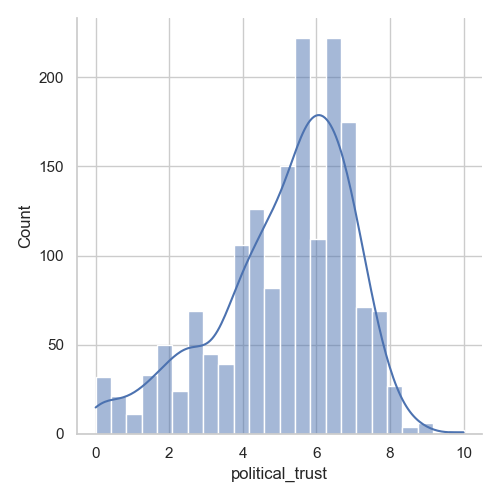
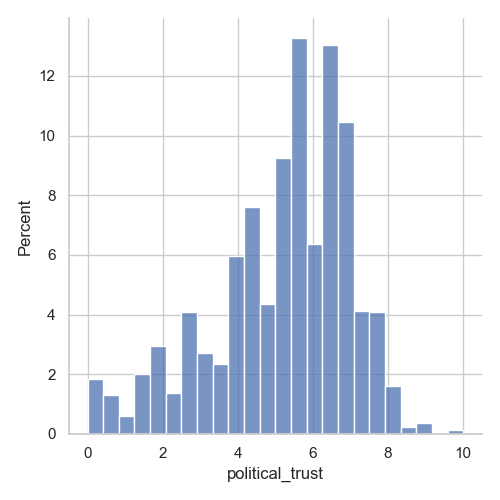
Refactor plots and add gender age pyramid visualization
Updated file paths and refactored descriptive plots for clarity. Introduced a new gender-based age pyramid plot to visualize demographic distribution. Minor changes include adding FIXME and TODO notes

diff --git a/ESS11/data_analysis/descriptive_plots_refactor.py b/ESS11/data_analysis/descriptive_plots_refactor.py
@@ -2,7 +2,7 @@ import pandas as pd
 import matplotlib.pyplot as plt
 import seaborn as sns
 
-path = 'ESS11/data/processed/data_NL_transf_kneighbor_v2.csv'
+path = "C:\Python homedirectory\Portfolio_git\ESS11\data\processed\data_NL_transf_kneighbor_v2.csv"
 df = pd.read_csv(path, index_col=0)
 
 print(df.columns)
@@ -13,12 +13,26 @@ df_pol = df.loc[:, ['age', 'gender', 'education', 'educational_level', 'activity
 
 
 ###############################################
+# Gender piechart
+gender_counts = df_pol['gender'].value_counts()
+
+plt.figure(figsize=(8, 8))
+plt.pie(
+    gender_counts,
+    labels=gender_counts.index,
+    autopct='%1.1f%%',
+    startangle=90,
+    colors=['lightblue', 'lightcoral']
+)
+
+plt.title('Gender Distribution', fontsize=14)
+plt.savefig(r'C:\Python homedirectory\Portfolio_git\ESS11\reports\figures\gender.png')
+
 #Exploration plots
 sns.set_theme(style='whitegrid')
 plt.figure(figsize=(10, 6))
 plot_categoricals = ['educational_level', 'voted']
 print(df.voted.value_counts())
-sns.countplot(df, x=df.activity_work, stat='percent')
 plt.show()
 
 for feature in plot_categoricals:
@@ -26,19 +40,8 @@ for feature in plot_categoricals:
     plt.show()
     plt.close()
 
-#age
-sns.displot(data=df_pol, x='age', kind='hist', kde=True)
-plt.savefig(r'C:\Python homedirectory\Portfolio_git\ESS11\reports\figures\age.png')
-plt.close()
-sns.displot(data=df_pol, x='political_trust', kind='hist', kde=True)
+sns.displot(data=df_pol, x='political_trust', kind='hist', stat='percent')
 plt.savefig(r'C:\Python homedirectory\Portfolio_git\ESS11\reports\figures\political_trust.png')
-plt.close()
-#gender
-sns.catplot(data=df_pol, x='gender', kind='count',stat='percent')
-plt.savefig(r'C:\Python homedirectory\Portfolio_git\ESS11\reports\figures\gender.png')
-plt.close()
-sns.catplot(data=df_pol, x='educational_level', col='gender', kind='count')
-plt.savefig(r'C:\Python homedirectory\Portfolio_git\ESS11\reports\figures\gender_education.png')
 plt.close()
 #edu trust boxplot
 sns.catplot(data=df_pol, x='educational_level', y='political_trust', kind='box')
@@ -52,4 +55,3 @@ plt.close()
 sns.lineplot(data=df_pol, y='political_trust', x='educational_level', hue='gender')
 plt.savefig(r'C:\Python homedirectory\Portfolio_git\ESS11\reports\figures\political_trust_line_gender.png')
 plt.close()
-#Divide per voted political party and compare % to latest election

diff --git a/ESS11/data_analysis/descriptive_gender_piramid.py b/ESS11/data_analysis/descriptive_gender_piramid.py
@@ -1,0 +1,41 @@
+import pandas as pd
+import seaborn as sns
+import matplotlib.pyplot as plt
+
+path = "C:\Python homedirectory\Portfolio_git\ESS11\data\processed\data_NL_transf_kneighbor_v2.csv"
+df = pd.read_csv(path, index_col=0)
+
+df_pol = df.loc[:, ['age', 'gender', 'education', 'educational_level', 'activity_work', 'voted', 'political_trust']]
+
+# Group the data by age and gender, calculate percentages
+age_gender = (
+    df_pol.groupby(['age', 'gender'])
+    .size()
+    .reset_index(name='count')
+    .pivot(index='age', columns='gender', values='count')
+    .fillna(0)
+)
+
+# Convert counts to percentages
+age_gender_percent = age_gender.div(age_gender.sum(axis=1), axis=0) * 100
+
+# Create the pyramid plot
+plt.figure(figsize=(12, 8))
+
+# Plot for category 1 (e.g., Female)
+plt.barh(age_gender_percent.index, -age_gender_percent['Female'], color='lightcoral', label='Female')
+
+# Plot for category 2 (e.g., Male)
+plt.barh(age_gender_percent.index, age_gender_percent['Male'], color='skyblue', label='Male')
+
+# Add labels
+plt.xlabel('Percentage')
+plt.ylabel('Age')
+plt.title('Age Pyramid by Gender')
+plt.legend(loc='upper right')
+plt.axvline(0, color='black', linewidth=0.5)  # Add a vertical line at 0
+
+# Show plot
+plt.tight_layout()
+plt.savefig(r'C:\Python homedirectory\Portfolio_git\ESS11\reports\figures\age.png')
+#plt.show()

diff --git a/ESS11/data_preparation/poltrust_scale/political_trust_kneighbors.py b/ESS11/data_preparation/poltrust_scale/political_trust_kneighbors.py
@@ -58,3 +58,4 @@ imputed_df.to_csv('C:\Python homedirectory\Portfolio_git\ESS11\data\processed\da
 
 
 # TODO K-NEIGHBORS moet afronden. Zorg ervoor dat je niet alle variabelen meeneemt
+# FIXME ZIE BOVENSTAANDE

diff --git a/ESS11/data_analysis/weighing_edu.py b/ESS11/data_analysis/weighing_edu.py
@@ -1,0 +1,1 @@
+# TODO assign weight to educational level due to loweredu underrepresented
